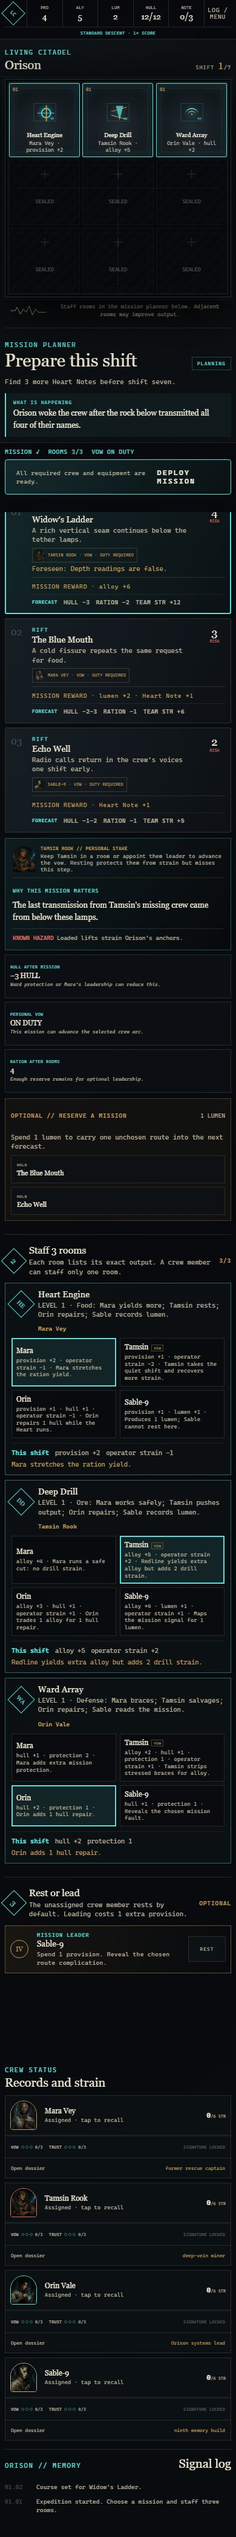
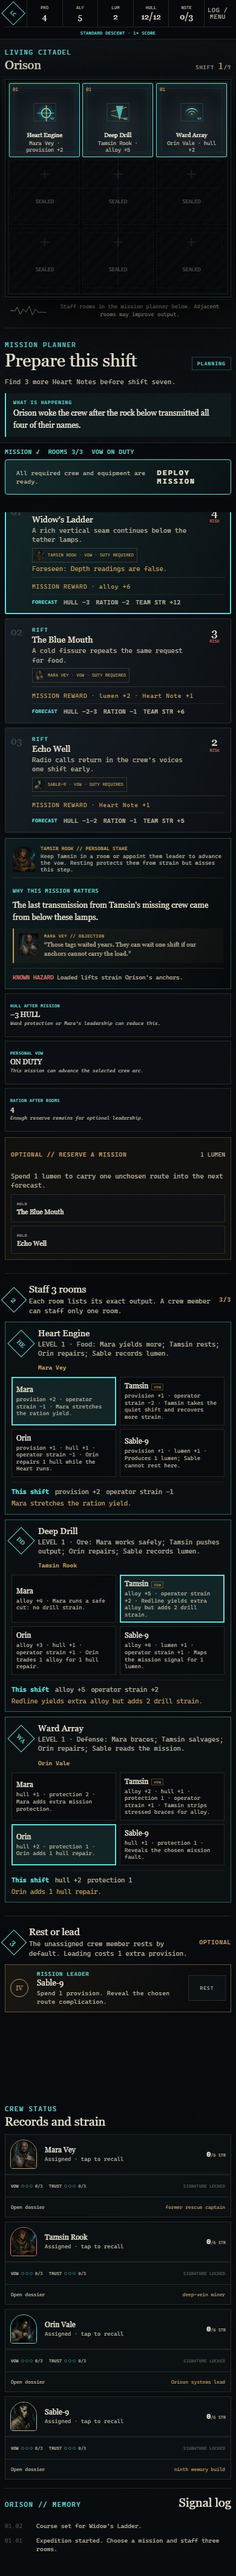
feat: give every mission a crew objection

diff --git a/packages/engine/src/data/content.ts b/packages/engine/src/data/content.ts
@@ -104,6 +104,8 @@ export const ROUTES: readonly RouteDefinition[] = [
     focusCrew: 'orin',
     description: 'A shallow cyan ore seam crosses brittle basalt.',
     storyLead: 'Orin says the seam contains the same mineral lattice as Orison\'s nervous system.',
+    counterCrew: 'tamsin',
+    counterpoint: 'Orison’s nerves or not, brittle glass does not care what we call it. One bad bite and the drill comes back in pieces.',
     rewardText: '3 alloy.',
     hazardText: 'The seam splinters during drilling.',
     baseRewards: { alloy: 3 },
@@ -118,6 +120,8 @@ export const ROUTES: readonly RouteDefinition[] = [
     focusCrew: 'tamsin',
     description: 'A hot ore seam is moving beneath the crust.',
     storyLead: 'Tamsin saw a moving seam once before, on the shift that killed her first crew.',
+    counterCrew: 'mara',
+    counterpoint: 'Moving seams are how rescue maps become obituaries. We take a cool path or we leave it.',
     rewardText: '4 alloy and 1 lumen.',
     hazardText: 'Heat buckles the drill housing.',
     baseRewards: { alloy: 4, lumen: 1 },
@@ -132,6 +136,8 @@ export const ROUTES: readonly RouteDefinition[] = [
     focusCrew: 'sable',
     description: 'Stacked ore plates emit one stable Heart-Lode signal.',
     storyLead: 'A clean Note could prove the signal below is language rather than mining noise.',
+    counterCrew: 'orin',
+    counterpoint: 'A clean tone proves resonance, not intent. Machines answer probes all the time.',
     rewardText: '2 alloy and 1 Heart Note.',
     hazardText: 'Vibration loosens the tunnel roof.',
     baseRewards: { alloy: 2 },
@@ -146,6 +152,8 @@ export const ROUTES: readonly RouteDefinition[] = [
     focusCrew: 'tamsin',
     description: 'A rich vertical seam continues below the tether lamps.',
     storyLead: 'The last transmission from Tamsin\'s missing crew came from below these lamps.',
+    counterCrew: 'mara',
+    counterpoint: 'Those tags waited years. They can wait one shift if our anchors cannot carry the load.',
     rewardText: '6 alloy.',
     hazardText: 'Loaded lifts strain Orison\'s anchors.',
     baseRewards: { alloy: 6 },
@@ -160,6 +168,8 @@ export const ROUTES: readonly RouteDefinition[] = [
     focusCrew: 'sable',
     description: 'An old observatory still tracks signals inside the moon.',
     storyLead: 'Sable believes its survey records cover the minute erased from the previous Sable body.',
+    counterCrew: 'orin',
+    counterpoint: 'Any archive that stayed powered this long chose what to preserve. I do not trust its edit.',
     rewardText: '3 lumen and 1 Heart Note.',
     hazardText: 'Its machinery draws power from Orison.',
     baseRewards: { lumen: 3 },
@@ -174,6 +184,8 @@ export const ROUTES: readonly RouteDefinition[] = [
     focusCrew: 'sable',
     description: 'Eight intact worker casts surround one faceless cast.',
     storyLead: 'The faceless cast has Sable\'s serial pattern, but predates Sable-9.',
+    counterCrew: 'mara',
+    counterpoint: 'If that cast can command Orison, we approach as a rescue team, not archaeologists.',
     rewardText: '2 alloy, 2 provisions, and a Sable record.',
     hazardText: 'The site broadcasts an obsolete command to Orison.',
     baseRewards: { alloy: 2, provisions: 2 },
@@ -188,6 +200,8 @@ export const ROUTES: readonly RouteDefinition[] = [
     focusCrew: 'orin',
     description: 'Thin brass sheets contain survey records from the first mine.',
     storyLead: 'The first company may have known what the Heart-Lode was before it abandoned Vesper.',
+    counterCrew: 'sable',
+    counterpoint: 'The archive is complete enough to be propaganda. Missing pages are also data.',
     rewardText: '5 lumen.',
     hazardText: 'Decoding the records exhausts the crew.',
     baseRewards: { lumen: 5 },
@@ -202,6 +216,8 @@ export const ROUTES: readonly RouteDefinition[] = [
     focusCrew: 'orin',
     description: 'A buried machine chamber responds to Orin\'s test signal.',
     storyLead: 'Orison answered from this chamber before Orin sent the signal it recognized.',
+    counterCrew: 'mara',
+    counterpoint: 'If Orison answered before we called, we enter knowing the room may think it summoned us.',
     rewardText: '1 lumen and 2 Heart Notes.',
     hazardText: 'The chamber contains no useful supplies.',
     baseRewards: { lumen: 1 },
@@ -216,6 +232,8 @@ export const ROUTES: readonly RouteDefinition[] = [
     focusCrew: 'mara',
     description: 'Eight stranded prospectors have one day of air left.',
     storyLead: 'Mara has room for seven evacuees and refuses to choose the eighth in advance.',
+    counterCrew: 'tamsin',
+    counterpoint: 'Seven seats is arithmetic. The eighth person turns this into a hull decision, not a moral slogan.',
     rewardText: '4 provisions.',
     hazardText: 'Evacuation adds weight and delay.',
     baseRewards: { provisions: 4 },
@@ -230,6 +248,8 @@ export const ROUTES: readonly RouteDefinition[] = [
     focusCrew: 'orin',
     description: 'An abandoned greenhouse still produces warm fruit.',
     storyLead: 'The fruit contains brass structures that copy Orison\'s working rooms.',
+    counterCrew: 'sable',
+    counterpoint: 'Copying rooms is not nourishment. The fruit may be building a smaller Orison inside us.',
     rewardText: '5 provisions and 1 lumen.',
     hazardText: 'Moving roots have ruptured the seals.',
     baseRewards: { provisions: 5, lumen: 1 },
@@ -244,6 +264,8 @@ export const ROUTES: readonly RouteDefinition[] = [
     focusCrew: 'tamsin',
     description: 'A hospice keeper has food and records of Tamsin\'s first crew.',
     storyLead: 'The keeper logged seven miners entering Tamsin\'s lost shaft and eight voices leaving it.',
+    counterCrew: 'mara',
+    counterpoint: 'A keeper who counted eight voices knows more than they are offering. Food is not the price; silence is.',
     rewardText: '3 provisions and a crew record.',
     hazardText: 'No alloy or lumen can be recovered here.',
     baseRewards: { provisions: 3 },
@@ -258,6 +280,8 @@ export const ROUTES: readonly RouteDefinition[] = [
     focusCrew: 'mara',
     description: 'Pilgrims trade supplies beneath an abandoned crawler.',
     storyLead: 'Their ward spindle can protect Orison, but Mara will not accept an unnamed debt.',
+    counterCrew: 'sable',
+    counterpoint: 'Unnamed debts are executable code with social punctuation. The spindle may collect on Orison.',
     rewardText: '2 provisions, 2 alloy, and 1 lumen.',
     hazardText: 'The traders require a binding promise.',
     baseRewards: { provisions: 2, alloy: 2, lumen: 1 },
@@ -272,6 +296,8 @@ export const ROUTES: readonly RouteDefinition[] = [
     focusCrew: 'mara',
     description: 'A cold fissure repeats the same request for food.',
     storyLead: 'The request uses Mara\'s private rescue code, which was never entered in Orison.',
+    counterCrew: 'orin',
+    counterpoint: 'A rescue code can be copied. If the fissure knows when we answer, it is bait with a familiar voice.',
     rewardText: '2 lumen and 1 Heart Note.',
     hazardText: 'The fissure closes on any answering signal.',
     baseRewards: { lumen: 2 },
@@ -286,6 +312,8 @@ export const ROUTES: readonly RouteDefinition[] = [
     focusCrew: 'sable',
     description: 'Radio calls return in the crew\'s voices one shift early.',
     storyLead: 'One recording is a distress call from tomorrow, with a fifth voice in the room.',
+    counterCrew: 'mara',
+    counterpoint: 'A distress call from tomorrow is not an order. We still decide which danger exists today.',
     rewardText: '1 Heart Note.',
     hazardText: 'The recordings increase strain and distrust.',
     baseRewards: {},
@@ -300,6 +328,8 @@ export const ROUTES: readonly RouteDefinition[] = [
     focusCrew: 'orin',
     description: 'A dust field blocks sound and instrument feedback.',
     storyLead: 'Crossing it may erase the frequency Orison uses to speak to the crew.',
+    counterCrew: 'tamsin',
+    counterpoint: 'I can drill blind. I cannot feel a roof break through a floor that has stopped talking.',
     rewardText: '4 alloy, 2 lumen, and 1 Heart Note.',
     hazardText: 'The crew cannot hear structural warnings.',
     baseRewards: { alloy: 4, lumen: 2 },
@@ -314,6 +344,8 @@ export const ROUTES: readonly RouteDefinition[] = [
     focusCrew: 'sable',
     description: 'A crystal island stands inside a tide of liquid stone.',
     storyLead: 'The strongest Heart-Lode signal comes from the island and addresses Orison by name.',
+    counterCrew: 'mara',
+    counterpoint: 'Anything that knows Orison’s name knows how to make us curious. Curiosity is not clearance.',
     rewardText: '1 lumen and 2 Heart Notes.',
     hazardText: 'One pressure pulse can cover Orison.',
     baseRewards: { lumen: 1 },

diff --git a/apps/game/app/styles.css b/apps/game/app/styles.css
@@ -369,6 +369,11 @@ h1, h2 { font-family: var(--serif); font-weight: 500; }
 .mission-focus small { color: var(--bone-300); font-size: .58rem; }
 .mission-story > span { color: var(--vein-400); font-size: .54rem; letter-spacing: .1em; }
 .mission-story p { margin: 7px 0 9px; font: .82rem/1.5 var(--serif); }
+.mission-counter { display: grid; grid-template-columns: 34px 1fr; gap: 8px; margin: 0 0 8px; padding: 8px; border-left: 2px solid var(--brass-400); background: rgba(200,155,85,.05); }
+.mission-counter img { width: 32px; height: 36px; object-fit: cover; object-position: center 24%; }
+.mission-counter span { display: grid; gap: 2px; }
+.mission-counter b { color: var(--brass-400); font-size: .46rem; letter-spacing: .06em; }
+.mission-counter p { margin: 0; color: var(--bone-300); font: .65rem/1.4 var(--serif); }
 .mission-story > small { display: block; padding-top: 8px; border-top: 1px solid var(--quiet-line); color: var(--bone-300); font-size: .6rem; line-height: 1.4; }
 .mission-story > small b { color: var(--danger-400); }
 .tactical-read { display: grid; grid-template-columns: repeat(3, 1fr); gap: 6px; margin: 7px 0; }

diff --git a/apps/game/app/game-app.tsx b/apps/game/app/game-app.tsx
@@ -556,6 +556,10 @@ function RoutePanel({ view, chartStatus, onSelect, onReserve, onClearReservation
         })()}
         <span>WHY THIS MISSION MATTERS</span>
         <p>{selectedRoute.definition.storyLead}</p>
+        {selectedRoute.definition.counterCrew && selectedRoute.definition.counterpoint && (() => {
+          const counter = view.crew.find((crew) => crew.id === selectedRoute.definition.counterCrew)!;
+          return <blockquote className="mission-counter"><img src={`${BASE_PATH}/art/crew-${counter.id}.webp`} width="720" height="720" alt="" /><span><b>{counter.name.toUpperCase()} // OBJECTION</b><p>“{selectedRoute.definition.counterpoint}”</p></span></blockquote>;
+        })()}
         <small><b>KNOWN HAZARD</b> {selectedRoute.definition.hazardText}</small>
       </aside>}
       {selectedRoute && <aside className="tactical-read" data-testid="tactical-read">

diff --git a/apps/game/tests/game.spec.ts b/apps/game/tests/game.spec.ts
@@ -130,6 +130,8 @@ test('a new expedition explains Orison, Heart Notes, and every crew stake before
   await page.getByTestId('route-0').click();
   await expect(page.getByTestId('mission-story')).toContainText('WHY THIS MISSION MATTERS');
   await expect(page.getByTestId('mission-story')).toContainText('KNOWN HAZARD');
+  await expect(page.getByTestId('mission-story').locator('.mission-counter')).toContainText('OBJECTION');
+  await expect(page.getByTestId('mission-story').locator('.mission-counter')).not.toBeEmpty();
   await expect(page.getByTestId('mission-story').locator('.mission-focus')).toContainText('PERSONAL STAKE');
   await expect(page.getByTestId('mission-story').locator('.mission-focus')).toContainText('advance the vow');
   await expect(page.getByTestId('mission-story').locator('.mission-focus')).toContainText('Resting protects');

diff --git a/packages/engine/test/content.test.ts b/packages/engine/test/content.test.ts
@@ -62,7 +62,11 @@ test('story events offer tagged, state-changing choices', () => {
 
 test('route stories give every crew member personal missions', () => {
   assert.deepEqual(new Set(ROUTES.map((route) => route.focusCrew)), new Set(['mara', 'tamsin', 'orin', 'sable']));
-  for (const route of ROUTES) assert.ok(route.storyLead.length >= 40, `${route.id} needs a concrete personal lead`);
+  for (const route of ROUTES) {
+    assert.ok(route.storyLead.length >= 40, `${route.id} needs a concrete personal lead`);
+    assert.ok(route.counterCrew && route.counterCrew !== route.focusCrew, `${route.id} needs a dissenting crewmember`);
+    assert.ok(route.counterpoint && route.counterpoint.length >= 60, `${route.id} needs a concrete objection`);
+  }
 });
 
 test('crew vows explain the action that advances them', () => {

diff --git a/packages/engine/src/types.ts b/packages/engine/src/types.ts
@@ -53,6 +53,8 @@ export interface RouteDefinition {
   focusCrew: CrewId;
   description: string;
   storyLead: string;
+  counterCrew?: CrewId;
+  counterpoint?: string;
   rewardText: string;
   hazardText: string;
   baseRewards: Partial<Record<ResourceId, number>>;

diff --git a/docs/VALIDATION.md b/docs/VALIDATION.md
@@ -7,7 +7,7 @@ Validated against the local `main` branch on 2026-08-01 with Node 24.14 and npm
 
 - 42 deterministic engine, content, simulation, and evidence-integrity tests pass, including immutability, legal-command
   enforcement, save migration, exact replay, scars, loyalty, all endings, development
-  deferral, mode-aware emergency repair, Black Descent composition and scoring, route
+  deferral, sixteen route-specific crew objections, mode-aware emergency repair, Black Descent composition and scoring, route
   leadership, and short-handed runs.
 - The simulation regression covers 500 seeds under conservative, balanced, and
   aggressive policies, both with adaptive leadership and with every fourth crew member
@@ -161,9 +161,9 @@ and 696,000 reconstructed replays passed.
 
 ## Asset and dependency checks
 
-- The production export currently contains 36 files and 1,377,198 uncompressed bytes.
-  The directly referenced initial shell is 1,039,017 bytes; JavaScript totals 774,979
-  bytes, imagery 489,093 bytes, and CSS 61,378 bytes. The largest individual file is a
+- The production export currently contains 36 files and 1,380,087 uncompressed bytes.
+  The directly referenced initial shell is 1,041,906 bytes; JavaScript totals 777,422
+  bytes, imagery 489,093 bytes, and CSS 61,824 bytes. The largest individual file is a
   227,538-byte framework chunk. All remain below committed build-breaking budgets.
 - The export audit found no remote runtime asset references, no missing shell files,
   and no emitted file omitted from the generated service-worker cache.

diff --git a/README.md b/README.md
@@ -41,6 +41,8 @@ expedition: resting prevents strain but forfeits that vow step. The planner upda
 hull, vow, and post-room ration forecast as assignments change. Victories close with a
 structured four-character coda whose text responds to each crew arc instead of one
 undifferentiated epilogue paragraph.
+Each of the sixteen missions also presents one authored objection from a second crew
+member, making the personal stake and the operational reason to refuse it visible together.
 At four strain, pressure suppresses a crewmember's extra room-output bonus, so a rested
 generalist can outperform the nominal specialist before the six-strain incapacitation
 threshold. Every affected room preview calls out the penalty before deployment.
